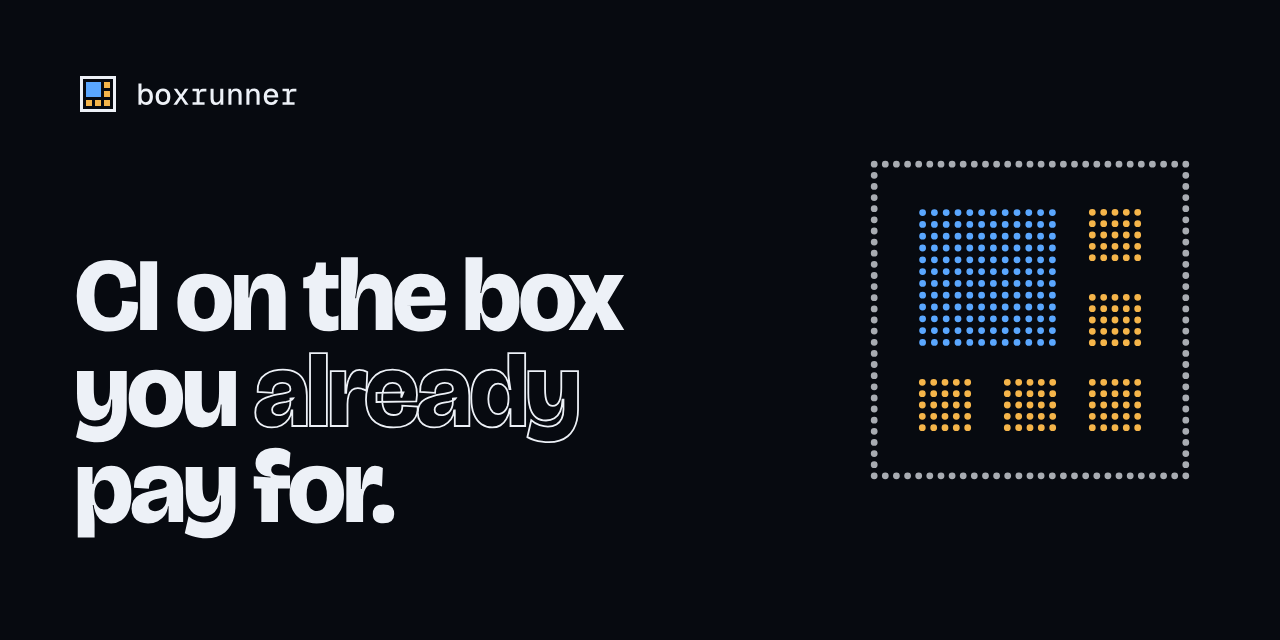
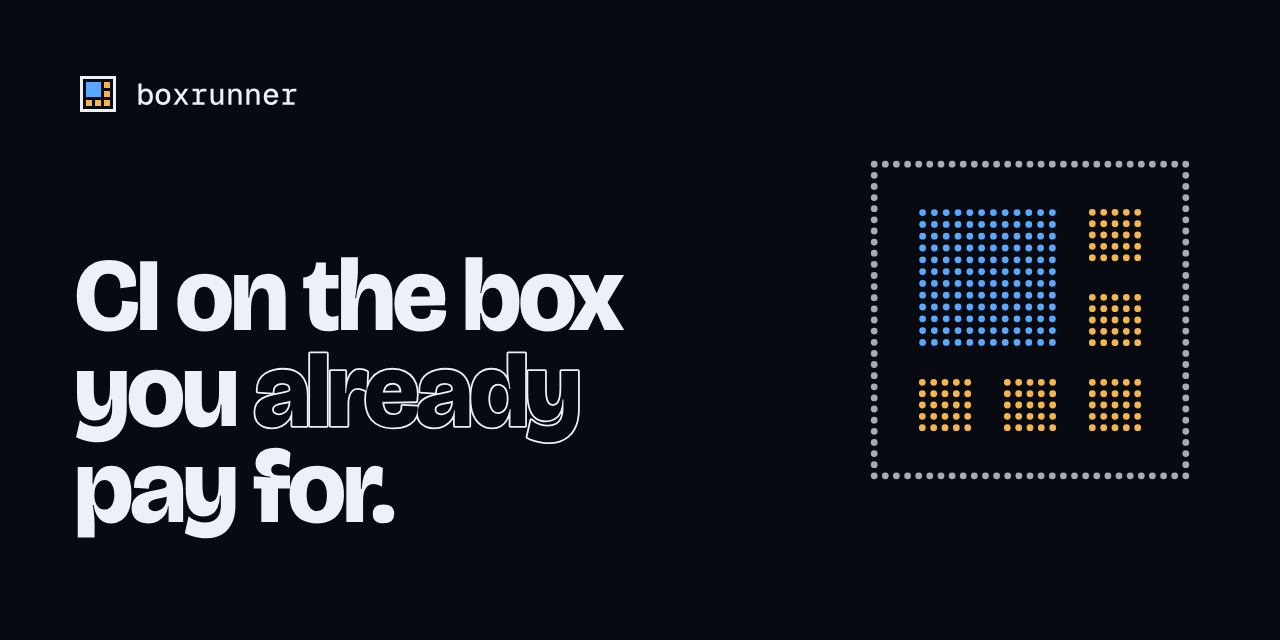
Draw outlined words without the seams of overlapping contours
The display face keeps overlapping contours, so a plain stroke drew their
seams inside letters such as the e of "already" in the README hero and
the social preview. The outline is now stroked at twice the width and
covered inside with the background, which leaves only the outer edge.

Changed region(s): [[0.1875, 0.5625, 0.4688, 0.7188]]

diff --git a/docs/art/build.py b/docs/art/build.py
@@ -120,10 +120,16 @@ def text(face, s, size, x, y, fill, tracking=0.0, anchor="start", stroke=None, e
         w = face.width(s, size, tracking)
         x -= w if anchor == "end" else w / 2
     uses, w = face.path(s, size, x, y, tracking)
-    paint = (
-        f'fill="none" stroke="{stroke[0]}" stroke-width="{stroke[1] * face.upem / size:.4g}"' if stroke else f'fill="{fill}"'
-    )
-    return f"<g {paint} {extra}>{uses}</g>", w
+    if not stroke:
+        return f'<g fill="{fill}" {extra}>{uses}</g>', w
+    # Variable fonts keep overlapping contours, so a plain stroke draws their
+    # seams inside the letters. Stroke at twice the width, then cover the
+    # inside with the background: only the outer half of the stroke remains.
+    width = 2 * stroke[1] * face.upem / size
+    return (
+        f'<g fill="none" stroke="{stroke[0]}" stroke-width="{width:.4g}" stroke-linejoin="round" {extra}>{uses}</g>'
+        f'<g fill="{C["night"]}" {extra}>{uses}</g>'
+    ), w
 
 
 def runs(parts, size, x, y):
